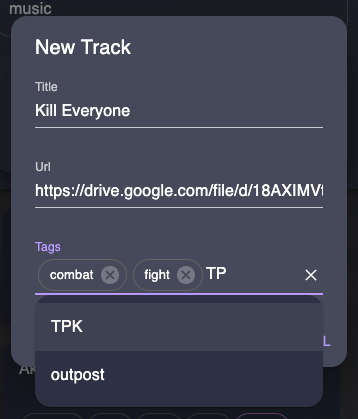
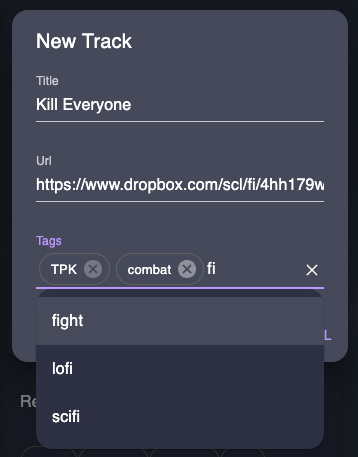
store.mk update

diff --git a/docs/store.md b/docs/store.md
@@ -16,9 +16,15 @@ Play long looping background music and ambiance from your own library with built
 
 ## What you need to know
 
+### ⚠ Google Drive no longer supports this kind of usage ⚠
+
+As of January 10th, 2024 Google drive has stopped supporting embedded files in web applications. This means you can **no longer** use a full access Google Drive url directly with any website. Unfortunately this includes audio files with Tracks, but also extends to maps, tokens, images and any other Google drive file in any other web application. We are recommending users switch over to **[Dropbox](https://www.dropbox.com)** as they still support direct content embedding.
+
+More information can be found in this [Google issue tracker](https://issuetracker.google.com/issues/319531488?pli=1). We are super sorry about how this has affected our users and understand how annoying it is to move file sharing services. Hopefully this _never happens again_.
+
 ### Public access
 
-Tracks will **only** play audio files that are publicly available on the internet. This means your music needs to be hosted from a provider that offers public file sharing without having to login, such as **Google Drive** or **Dropbox**. If you already use a free TTRPG music site check to see if they offer download links of the audio files (most do), if so those URLs should work great with Tracks.
+Tracks will **only** play audio files that are publicly available on the internet. This means your music needs to be hosted from a provider that offers public file sharing without having to login, such as **Dropbox**. If you already use a free TTRPG music site check to see if they offer download links of the audio files (most do), if so those URLs should work great with Tracks.
 
 ### Designed for GMs
 
@@ -32,33 +38,28 @@ Your attention should be on the game, not fiddling with music.
 
 Tracks automatically loops audio forever which makes it perfect for long running background music and ambience. **Tracks It isn't awesome at playing short sound effects and bites.** This may change in the future, keep checking back for updates.
 
-## Quick start with Google Drive
+## Quick start with [Dropbox](https://www.dropbox.com)
 
-1. Upload an audio file to Google Drive
-
-![google dive](https://raw.githubusercontent.com/hypergig/obr-tracks/main/docs/google-drive.png)
-
-2. Share it
+1. Share an **mp3** from [Dropbox](https://www.dropbox.com)
 
 ![share](https://raw.githubusercontent.com/hypergig/obr-tracks/main/docs/share.png)
 
-3. Click **Anyone with the link**
+2. Make sure it says
+   > Anyone with this link **can view**
 
-![link](https://raw.githubusercontent.com/hypergig/obr-tracks/main/docs/link.png)
-
-4. Copy the link
+and click **Copy link**
 
 ![copy](https://raw.githubusercontent.com/hypergig/obr-tracks/main/docs/copy-link.png)
 
-5. Click **Add Track** in the menu
+3. Switch back to **Tracks** and click **Add Track** in the menu
 
 ![menu](https://raw.githubusercontent.com/hypergig/obr-tracks/main/docs/add.png)
 
-6. Fill in the **Title**, paste the **Url**, and set some **Tags** so you can quickly find the track later
+4. Fill in the **Title**, paste the **Url**, and set some **Tags** so you can quickly find the track later
 
 ![add](https://raw.githubusercontent.com/hypergig/obr-tracks/main/docs/add-track.png)
 
-7. Save!
+5. Save!
 
 ## Search
 
